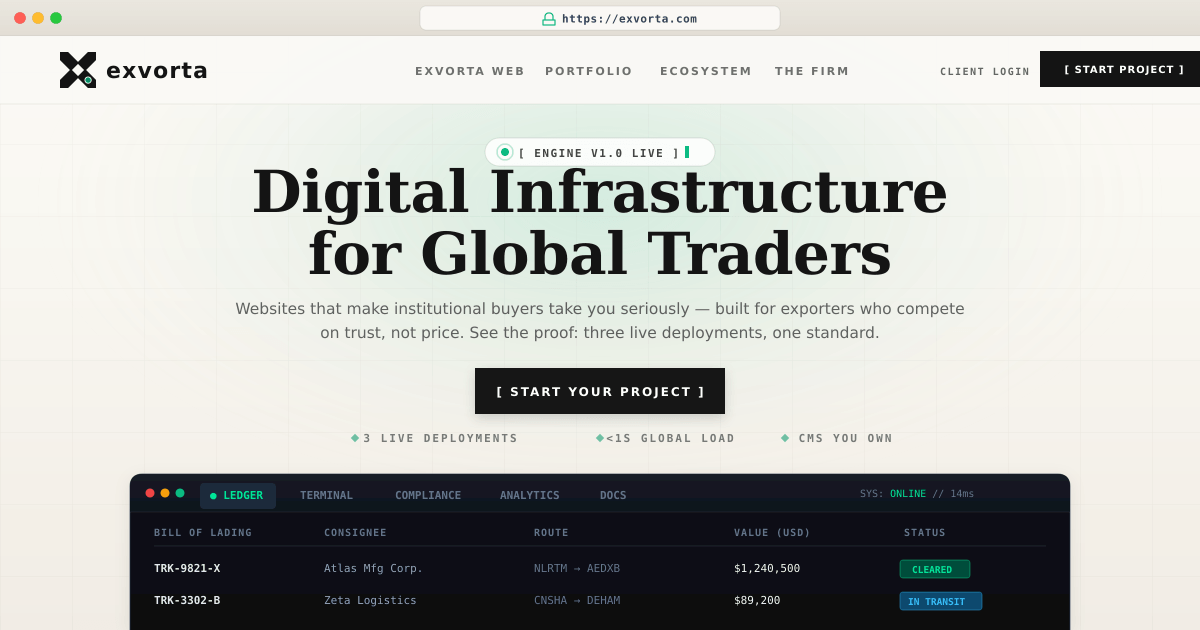
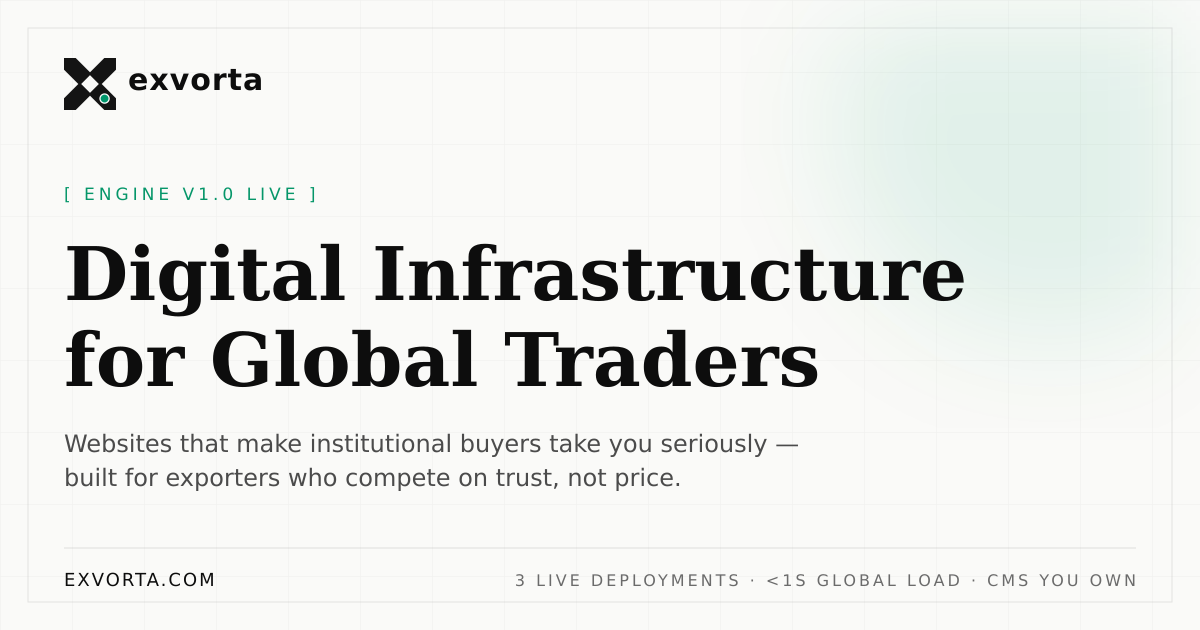
feat(og): LinkedIn-optimized 1200x630 social preview image + fresh og:image URL

diff --git a/utils/generateMeta.ts b/utils/generateMeta.ts
@@ -58,7 +58,7 @@ export const generateMeta = async (args?: GenerateMetaArgs): Promise<Metadata> =
     args?.image ||
     docImageUrl ||
     fallbackOgImageUrl ||
-    '/og-default.png'
+    '/og-linkedin.png'
 
   // Ensure absolute URL with https:// protocol for LinkedIn, Telegram, Twitter, WhatsApp crawlers
   const ogImageUrl = rawOgImage.startsWith('http://') || rawOgImage.startsWith('https://')
